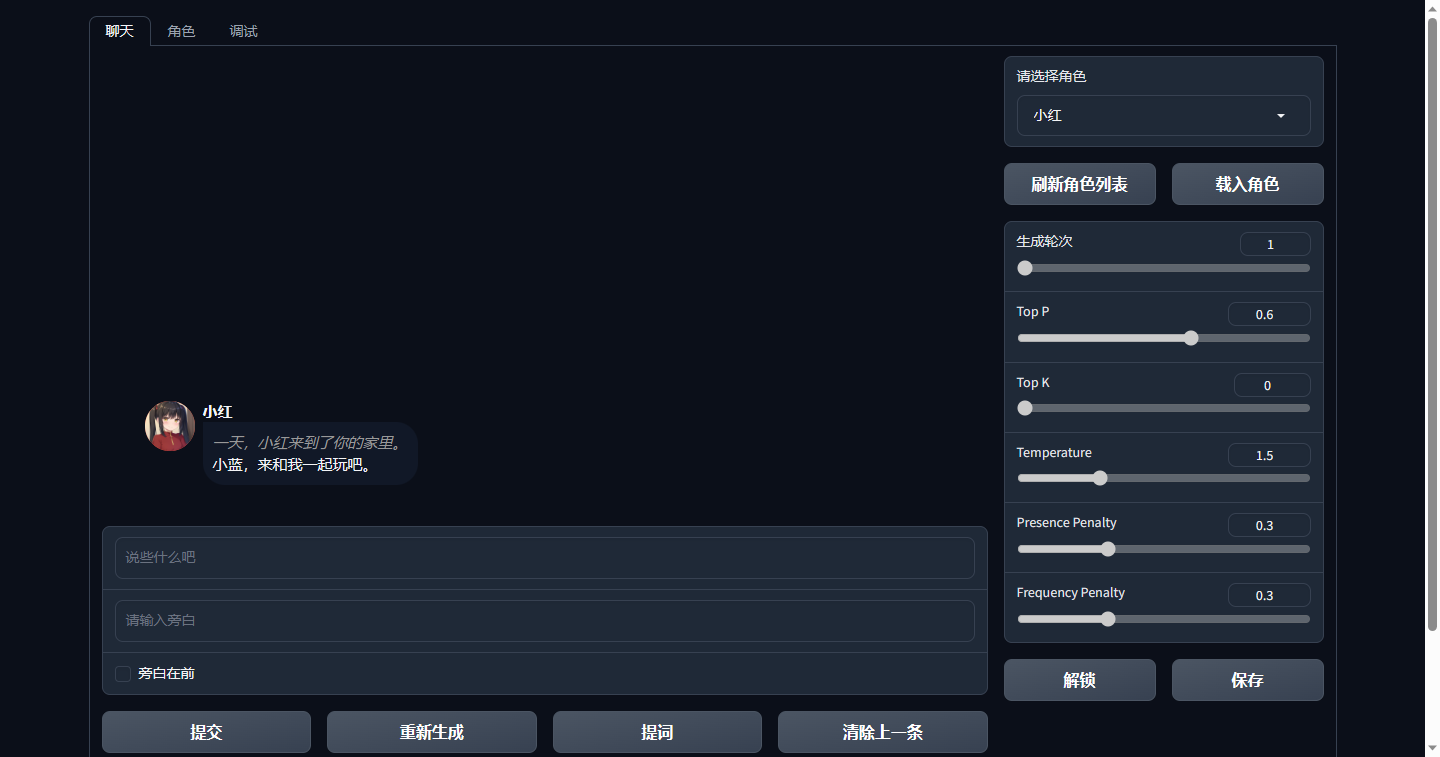
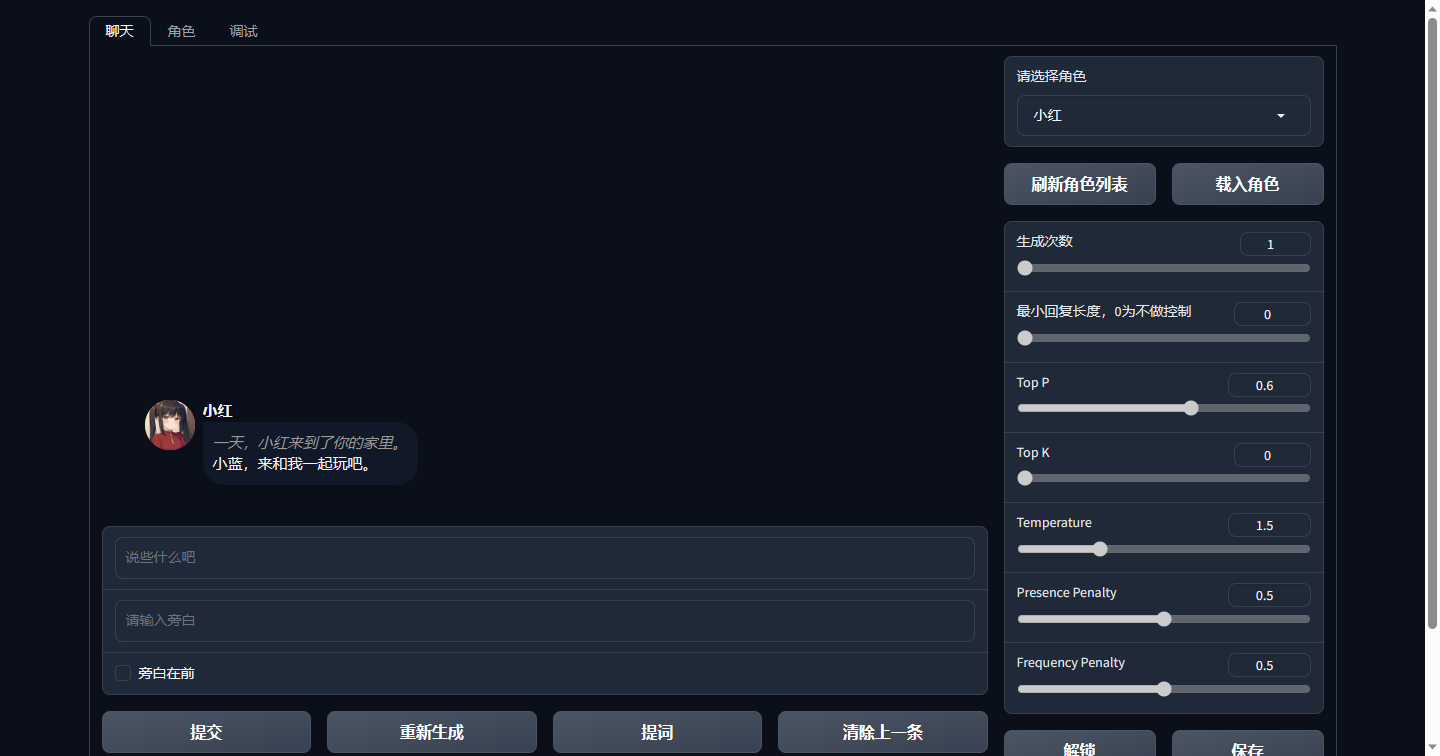
增加了一个回复的最小长度参数。

diff --git a/modules/ui.py b/modules/ui.py
@@ -115,8 +115,8 @@ class UI:
     self.lock_flag_role = not self.lock_flag_role
     return return_arr
 
-  def __send_message(self, message, action, top_p, top_k, temperature, presence_penalty, frequency_penalty, turns, action_front):
-    text, action_text, chatbot = self.chat_model.on_message(message, action, top_p, top_k, temperature, presence_penalty, frequency_penalty, action_front, turns)
+  def __send_message(self, message, action, top_p, top_k, temperature, presence_penalty, frequency_penalty, turns, min_len, action_front):
+    text, action_text, chatbot = self.chat_model.on_message(message, action, top_p, top_k, temperature, presence_penalty, frequency_penalty, action_front, turns, min_len)
     show_label = False
     interactive = True
     # if self.chat_model.check_token_count():
@@ -167,6 +167,7 @@ class UI:
     if not flag:
       text = self.language_conf['UNLOCK']
     return_arr = (
+      gr.Slider.update(interactive=flag), 
       gr.Slider.update(interactive=flag), 
       gr.Slider.update(interactive=flag), 
       gr.Slider.update(interactive=flag), 
@@ -229,6 +230,7 @@ class UI:
               with gr.Column(min_width=100):
                 load_char_btn = gr.Button(self.language_conf['LOAD_CHAR'])
             turns = gr.Slider(minimum=1, maximum=10, step=1, interactive=False, label=self.language_conf['TURNS'])
+            min_len = gr.Slider(minimum=0, maximum=500, step=1, interactive=False, label='最小回复长度（0为不控制）')
             top_p = gr.Slider(minimum=0, maximum=1.0, step=0.01, interactive=False, label='Top P')
             top_k = gr.Slider(minimum=0, maximum=200, step=1, interactive=False, label='Top K')
             temperature = gr.Slider(minimum=0.2, maximum=5.0, step=0.01, interactive=False, label='Temperature')
@@ -257,14 +259,14 @@ class UI:
           example_message = gr.TextArea(placeholder=self.language_conf['EXAMPLE_DIA'], label=self.language_conf['EXAMPLE_DIA_LB'], lines=10)
         save_char_btn = gr.Button(self.language_conf['SAVE_CHAR'])
       
-      input_list = [message, action, top_p, top_k, temperature, presence_penalty, frequency_penalty, turns]
+      input_list = [message, action, top_p, top_k, temperature, presence_penalty, frequency_penalty, turns, min_len]
       output_list = [message, action, chatbot]
       char_input_list = [user, bot, action_start, action_end, greeting, bot_persona, example_message, chatbot]
       interactive_list = [message, action, submit, regen, delete, clear_last_btn, get_prompt_btn]
 
       load_char_btn.click(self.__load_char, inputs=[char_dropdown], outputs=char_input_list + interactive_list)
       refresh_char_btn.click(self.__update_chars_list, outputs=[char_dropdown])
-      save_conf.click(self.__save_config_role, inputs=input_list[2:-1])
+      save_conf.click(self.__save_config_role, inputs=input_list[2:-2])
       # message.submit(self.__send_message, inputs=input_list + [action_front], outputs=output_list + interactive_list).then(self.__arrange_token, outputs=interactive_list, show_progress=False)
       # action.submit(self.__send_message, inputs=input_list + [action_front], outputs=output_list + interactive_list).then(self.__arrange_token, outputs=interactive_list, show_progress=False)
       # submit.click(self.__send_message, inputs=input_list + [action_front], outputs=output_list + interactive_list).then(self.__arrange_token, outputs=interactive_list, show_progress=False)      
@@ -272,9 +274,9 @@ class UI:
       action.submit(self.__send_message, inputs=input_list + [action_front], outputs=output_list + interactive_list)
       submit.click(self.__send_message, inputs=input_list + [action_front], outputs=output_list + interactive_list)
       regen.click(self.chat_model.regen_msg, inputs=input_list[2:], outputs=output_list)
-      save_char_btn.click(self.__save_char, inputs=char_input_list[:-1], outputs=[char_dropdown])
+      save_char_btn.click(self.__save_char, inputs=char_input_list[:-2], outputs=[char_dropdown])
       clear_last_btn.click(self.chat_model.clear_last, outputs=[chatbot, message, action])
-      get_prompt_btn.click(self.chat_model.get_prompt, inputs=input_list[2:-1], outputs=[message, action])
+      get_prompt_btn.click(self.chat_model.get_prompt, inputs=input_list[2:-2], outputs=[message, action])
       unlock_btn.click(self.__unlock_role_param, outputs=input_list[2:] + [unlock_btn])
       clear_chat.click(self.__reset_chatbot, outputs=output_list + [delete, clear_chat, clear_cancel])
       delete.click(self.__confirm_delete, outputs=[delete, clear_chat, clear_cancel])

diff --git a/modules/chat.py b/modules/chat.py
@@ -78,17 +78,17 @@ class Chat:
       os.remove(save_file)
     return None, None, self.__generate_cai_chat_html()
   
-  def regen_msg(self, top_p, top_k, temperature, presence_penalty, frequency_penalty, turns):
+  def regen_msg(self, top_p, top_k, temperature, presence_penalty, frequency_penalty, turns, min_len):
     try:
       out, model_tokens, model_state = self.model_utils.load_all_stat(self.srv_chat, 'chat_pre')
     except:
       return '', self.__generate_cai_chat_html()
     new = f"{self.user}: {self.chatbot[-1][0]}\n\n{self.bot}:"
     out, model_tokens, model_state = self.model_utils.run_rnn(model_tokens, model_state, self.model_utils.pipeline.encode(new))
-    chat_param = self.model_utils.format_chat_param(top_p, top_k, temperature, presence_penalty, frequency_penalty, turns)
+    chat_param = self.model_utils.format_chat_param(top_p, top_k, temperature, presence_penalty, frequency_penalty, turns, min_len)
     return '', '', self.gen_msg(out, chat_param, model_tokens, model_state) 
   
-  def on_message(self, message, action, top_p, top_k, temperature, presence_penalty, frequency_penalty, action_front, turns):
+  def on_message(self, message, action, top_p, top_k, temperature, presence_penalty, frequency_penalty, action_front, turns, min_len):
     message = message.strip().replace('\r\n','\n') if message else ''
     action = action.strip().replace('\r\n','\n') if action else ''
     out, model_tokens, model_state = self.model_utils.load_all_stat(self.srv_chat, 'chat')
@@ -104,7 +104,7 @@ class Chat:
     new += f"{msg}\n\n{self.bot}:"
     out, model_tokens, model_state = self.model_utils.run_rnn(model_tokens, model_state, self.model_utils.pipeline.encode(new))
     self.chatbot += [[msg, None]]
-    chat_param = self.model_utils.format_chat_param(top_p, top_k, temperature, presence_penalty, frequency_penalty, turns)
+    chat_param = self.model_utils.format_chat_param(top_p, top_k, temperature, presence_penalty, frequency_penalty, turns, min_len)
     return '', '', self.gen_msg(out, chat_param, model_tokens, model_state)
   
   def gen_msg(self, out, chat_param, model_tokens, model_state):

diff --git a/modules/model_utils.py b/modules/model_utils.py
@@ -14,11 +14,10 @@ class ModelUtils:
   model_path = None
   strategy = None
   CHUNK_LEN = 100
-  CHAT_LEN_SHORT = 200
-  CHAT_LEN_LONG = 500
   END_OF_TEXT = 0
   END_OF_LINE = 11
   DOUBLE_END_OF_LINE = 261
+  CHN_PERIOD = 10080
   CHN_PERIOD_END = 28329
   NEG_INF = -999999999
   AVOID_REPEAT = '，：？！'
@@ -72,6 +71,10 @@ class ModelUtils:
     occurrence = {}
     turns = chat_param['turns']
     for i in range(999):
+      if chat_param['min_len'] >0 and i < chat_param['min_len']:
+        out[self.CHN_PERIOD_END] = self.NEG_INF
+        out[self.DOUBLE_END_OF_LINE] = self.NEG_INF
+        out[self.END_OF_LINE] = self.NEG_INF
       for n in occurrence:
         out[n] -= (chat_param['presence_penalty'] + occurrence[n] * chat_param['frequency_penalty'])
       token = self.pipeline.sample_logits(out, chat_param['temperature'], chat_param['top_p'], chat_param['top_k'])
@@ -82,11 +85,11 @@ class ModelUtils:
           turns -= 1
           continue
         if token == self.CHN_PERIOD_END:
+          token = self.CHN_PERIOD
           out[self.CHN_PERIOD_END] = self.NEG_INF
           out[self.DOUBLE_END_OF_LINE] = self.NEG_INF
           out[self.END_OF_LINE] = self.NEG_INF
           turns -= 1
-          continue
       occurrence[token] = 1 + (occurrence[token] if token in occurrence else 0)
       out, model_tokens, model_state = self.run_rnn(model_tokens, model_state, [token])
       out[self.END_OF_TEXT] = self.NEG_INF
@@ -99,13 +102,14 @@ class ModelUtils:
         break
     return send_msg, out, model_tokens, model_state
   
-  def format_chat_param(self, top_p, top_k, temperature, presence_penalty, frequency_penalty, turns=1):
+  def format_chat_param(self, top_p, top_k, temperature, presence_penalty, frequency_penalty, turns=1, min_len=0):
     chat_param = {
       'top_p': top_p,
       'top_k': top_k,
       'temperature': temperature,
       'presence_penalty': presence_penalty,
       'frequency_penalty': frequency_penalty,
-      'turns': turns
+      'turns': turns,
+      'min_len': min_len
     }
     return chat_param

diff --git a/README.md b/README.md
@@ -20,7 +20,9 @@ pip install rwkv --upgrade -i https://pypi.org/simple
 
 这里之所以指定官方源，是因为我发现我常用的清华源中RWKV库的版本还是0.7.3，虽然官方源很慢，但是还好这个包也不大。
 
-我在这次的更新中加入了一个“生成次数”的配置参数，将该参数调大后，程序会尝试让模型生成更长的回复文本，当然了，内容也更不可控，有时候会跑偏，甚至出现格式错误的问题，可能需要多重试几次，个人建议这个参数不要超过5。
+这次更新中加入了一个最小回复长度的参数，可以用这个方法让AI回复的更长（比调大“生成次数”控制的更好一些，但是有可能输出很多无用的废话），如果和“生成次数”一起使用的话，得到的生成最小值依然是该参数值，而不是生成次数x最小回复长度。
+
+更新中加入了一个“生成次数”的配置参数，将该参数调大后，程序会尝试让模型生成更长的回复文本，当然了，内容也更不可控，有时候会跑偏，甚至出现格式错误的问题，可能需要多重试几次，个人建议这个参数不要超过5。
 
 之前的更新中，我增加了一个输入旁白的对话框，当对话陷入僵局时，不妨使用旁白来主动推动剧情，当然也可以在旁白中增加一些描述，甚至可以去控制AI这个角色的动作，AI也会顺着旁白的意思继续对话。
 
@@ -86,7 +88,7 @@ top_p值越低，答案越准确而真实。更高的值鼓励更多样化的输
 这里给出一个我使用的配置：
 ```
 {
-  "top_p": 0.5,
+  "top_p": 0.6,
   "top_k": 0,
   "temperature": 1.5,
   "presence": 0.3,
@@ -135,7 +137,7 @@ Answer: xxxxxxxx
 Question: xxxxxxxxxxxxxxx
 
 ```
-给换成了
+现在给换成了
 ```
 用户名: xxxxxxxxx
 
@@ -148,6 +150,6 @@ Question: xxxxxxxxxxxxxxx
 
 1. 在设定中明确说明角色会什么，或者擅长什么，这样会让角色更乐意、更准确的和你聊相关的话题；
 
-2. 换成这种格式之后，角色回复会明显变短，这时可以尝试着把“生成次数”这个参数给加大，从而得到更长的回复，也更容易推动对话，但是我建议也别在任何情况下都把这个参数给加大，建议在角色的回复过短导致剧情推不下去的情况下再使用，否则会导致角色回复的内容跑题严重。
+2. 换成这种格式之后，角色回复会明显变短，这时可以尝试着把“生成次数”或者“最小回复长度”这些参数给加大，从而得到更长的回复，也更容易推动对话，但是我不建议在任何情况下都把这些参数给加大，而是应该在角色的回复过短导致剧情推不下去的情况下使用，否则会导致角色回复的内容跑题严重。
 
-3. 最近经过了一些测试，我现在也不好说示例对话能够显著提高对话质量了，但是示例对话的确有影响，但也有一些负面影响，比如影响生成出来的句子的连贯性（这个的确很微妙，也可能是我的示例对话写的不好，我会继续测试），目前我发现使用了以上两个措施以及重新生成几次后，的确可以生成符合我对角色预期的对话。
+3. 最近经过了一些测试，我现在也不好说示例对话能够显著提高对话质量了，但是示例对话的确有影响，但也有一些负面影响，比如影响生成出来的句子的连贯性（这个的确很微妙，也可能是我的示例对话写的不好，我会继续测试）。目前我发现使用了以上两个措施以及重新生成几次后，的确可以生成符合我对角色预期的对话。
